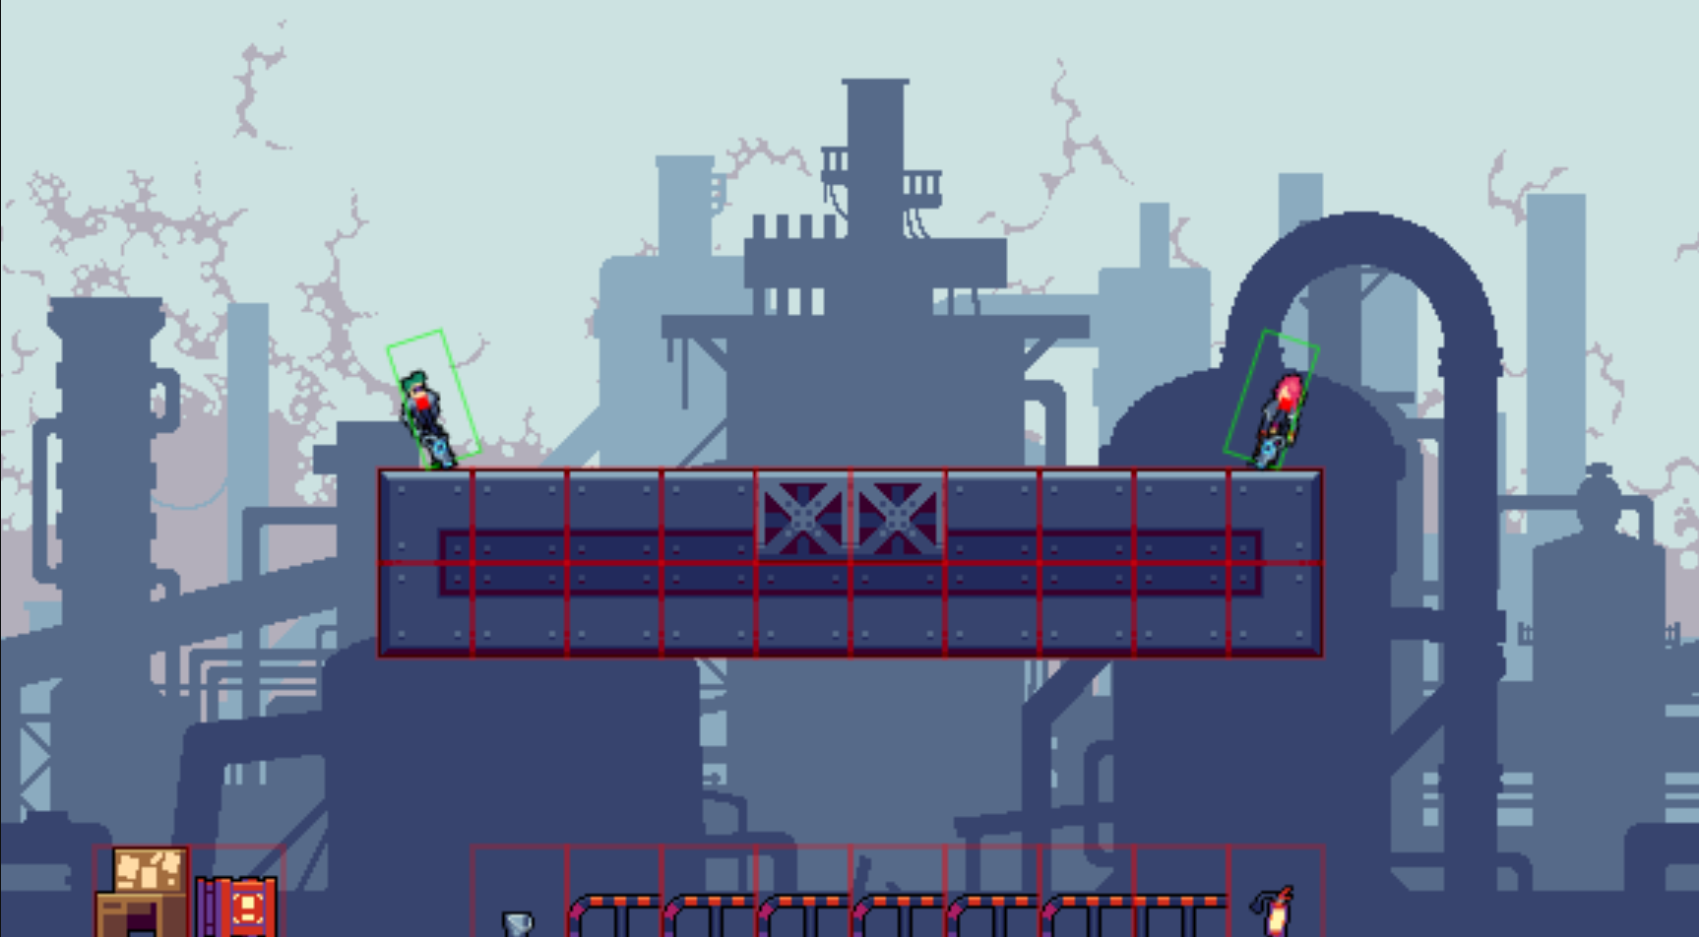
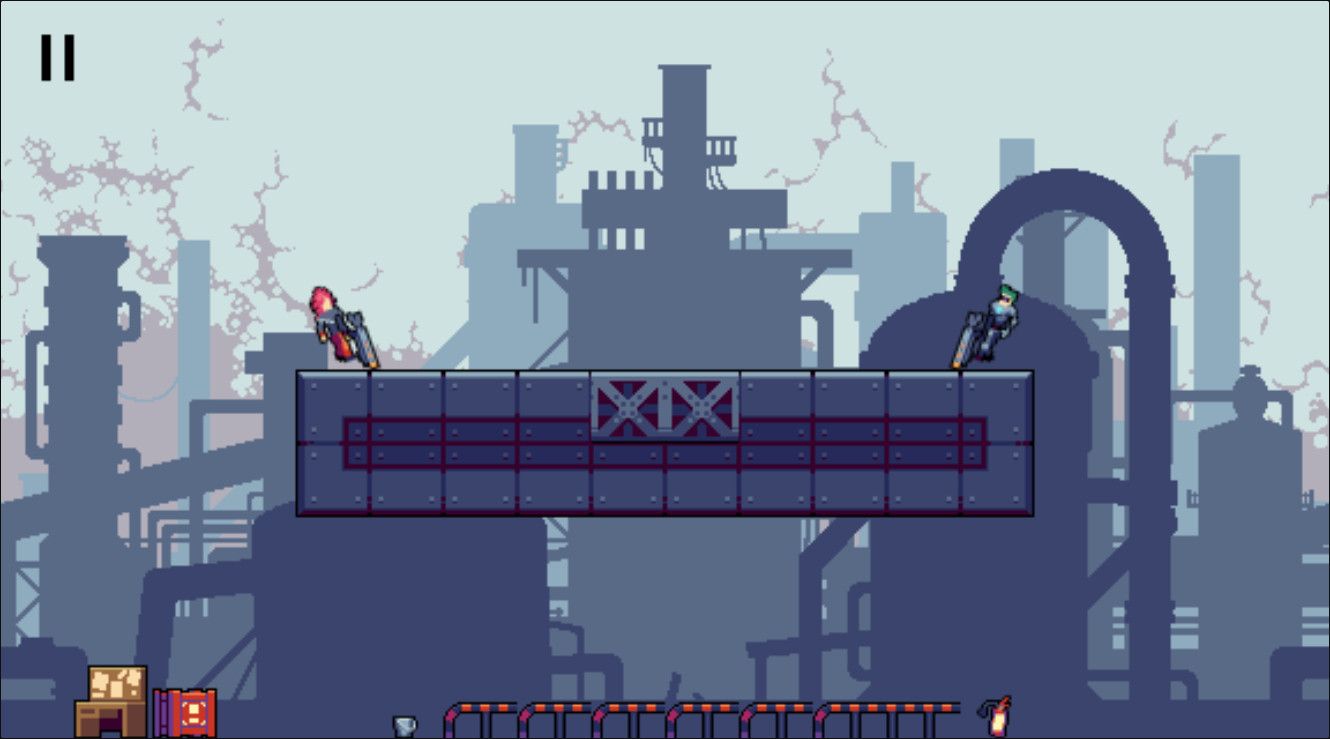
added the pause state

diff --git a/src/states/PlayState.js b/src/states/PlayState.js
@@ -23,10 +23,12 @@
             this.bullets = [];
             this.winner = null;
             this.scoredthisRound = false;
+            this.pauseHovered = false;
+            this.pauseButtonSize = 40;
         }
 
         async enter() {
-            this.clearBodies();
+            this.resetRound();
             const savedInfo = Persistence.loadGameInfo();
             this.player1Score = savedInfo.player1Score || 0;
             this.player2Score = savedInfo.player2Score || 0;
@@ -49,7 +51,6 @@
             this.player1 = CharacterFactory.createCharacter(150, 130, false, this);
             this.player2 = CharacterFactory.createCharacter(CANVAS_WIDTH - 150, 125, true, this);
 
-
             const savedGunType = savedInfo.gunType || '';
             const [gun1, gun2] = GunFactory.createGunForBothPlayers(this.player1, this.player2, savedGunType);
 
@@ -61,6 +62,10 @@
             // Set up collision detection for bullets hitting characters
             this.setupCollisionDetection();
             this.generatePowerUp();
+
+            const canvas = document.querySelector('canvas');
+            canvas.addEventListener('click', this.handleClick.bind(this));
+            canvas.addEventListener('mousemove', this.handleMouseMove.bind(this));
         }
         
         setupCollisionDetection() {
@@ -122,6 +127,38 @@
                     }
                 }
             });
+        }
+
+        exit() {
+            const canvas = document.querySelector('canvas');
+            canvas.removeEventListener('click', this.handleClick.bind(this));
+            canvas.removeEventListener('mousemove', this.handleMouseMove.bind(this));
+        }
+
+        getMousePos(event) {
+            const rect = event.target.getBoundingClientRect();
+            return {
+                x: (event.clientX - rect.left) * (CANVAS_WIDTH / rect.width),
+                y: (event.clientY - rect.top) * (CANVAS_HEIGHT / rect.height),
+            };
+        }
+
+        handleMouseMove(event) {
+            const { x, y } = this.getMousePos(event);
+
+            this.pauseHovered =
+                x > 10 &&
+                x < 10 + this.pauseButtonSize &&
+                y > 10 &&
+                y < 10 + this.pauseButtonSize;
+        }
+
+        handleClick(event) {
+            const { x, y } = this.getMousePos(event);
+
+            if (this.pauseHovered) {
+                stateMachine.change(GameStateName.Pause, { player1Score: this.player1Score, player2Score: this.player2Score});
+            }
         }
 
         
@@ -221,6 +258,19 @@
             for (const bullet of this.bullets) bullet.render()
 
             renderScore(this.player1Score, this.player2Score);
+            this.renderPauseButton();
+        }
+
+        renderPauseButton() {
+            // Draw || symbol for pause
+            context.strokeStyle = 'black';
+            context.lineWidth = 4;
+            context.beginPath();
+            context.moveTo(20, 15);
+            context.lineTo(20, 35);
+            context.moveTo(30, 15);
+            context.lineTo(30, 35);
+            context.stroke();
         }
 
         addBullets(bullets) {
@@ -284,30 +334,32 @@
             this.obstacles = [];
 
             // Respawn players
-            this.player1.respawn(150, 130);
-            this.player2.respawn(CANVAS_WIDTH - 150, 130);
+            if (this.player1 && this.player2) {
+                this.player1.respawn(150, 130);
+                this.player2.respawn(CANVAS_WIDTH - 150, 130);
 
-            // Reset guns
-            const savedInfo = Persistence.loadGameInfo();
-            const savedGunType = savedInfo.gunType || '';
+                // Reset guns
+                const savedInfo = Persistence.loadGameInfo();
+                const savedGunType = savedInfo.gunType || '';
 
-            const [gun1, gun2] = GunFactory.createGunForBothPlayers(
-                this.player1, 
-                this.player2, 
-                savedGunType, 
-                true
-            );
+                const [gun1, gun2] = GunFactory.createGunForBothPlayers(
+                    this.player1, 
+                    this.player2, 
+                    savedGunType, 
+                    true
+                );
 
-            this.player1.setGun(gun1);
-            this.player2.setGun(gun2);
+                this.player1.setGun(gun1);
+                this.player2.setGun(gun2);
 
-            Persistence.saveGameInfo({ gunType: gun1.type });
+                Persistence.saveGameInfo({ gunType: gun1.type });
 
-            // Reset velocities
-            matter.Body.setVelocity(this.player1.body, { x: 0, y: 0 });
-            matter.Body.setVelocity(this.player2.body, { x: 0, y: 0 });
+                // Reset velocities
+                matter.Body.setVelocity(this.player1.body, { x: 0, y: 0 });
+                matter.Body.setVelocity(this.player2.body, { x: 0, y: 0 });
 
-            this.scoredthisRound = false;
+                this.scoredthisRound = false;
+            }
         }
 
         clearBodies() {

diff --git a/src/states/PauseState.js b/src/states/PauseState.js
@@ -1,0 +1,114 @@
+import State from '../../lib/State.js';
+import { context, CANVAS_WIDTH, CANVAS_HEIGHT, input, stateMachine, timer, sounds } from '../globals.js';
+import Input from '../../lib/Input.js';
+import GameStateName from '../enums/GameStateName.js';
+import SoundName from '../enums/SoundName.js';
+import renderScore from '../ui/ScoreRenderer.js';
+import Persistence from '../services/Persistence.js';
+
+export default class PauseState extends State {
+    constructor() {
+        super();
+        this.bgImage = new Image();
+        this.bgImage.src = './assets/images/background2.png';
+        this.loaded = false;
+        this.bgImage.onload = () => (this.loaded = true);
+
+        this.resumeHovered = false;
+        this.menuHovered = false;
+
+        this.handleClick = this.handleClick.bind(this);
+        this.handleMouseMove = this.handleMouseMove.bind(this);
+    }
+
+    enter({ player1Score, player2Score } = {}) {
+        const savedInfo = Persistence.loadGameInfo();
+        this.player1Score = player1Score ?? savedInfo.player1Score ?? 0;
+        this.player2Score = player2Score ?? savedInfo.player2Score ?? 0;
+
+        const canvas = document.querySelector('canvas');
+        canvas.addEventListener('click', this.handleClick);
+        canvas.addEventListener('mousemove', this.handleMouseMove);
+    }
+
+    exit() {
+        const canvas = document.querySelector('canvas');
+        canvas.removeEventListener('click', this.handleClick);
+        canvas.removeEventListener('mousemove', this.handleMouseMove);
+    }
+
+    getMousePos(event) {
+        const rect = event.target.getBoundingClientRect();
+        return {
+            x: (event.clientX - rect.left) * (CANVAS_WIDTH / rect.width),
+            y: (event.clientY - rect.top) * (CANVAS_HEIGHT / rect.height),
+        };
+    }
+
+    handleMouseMove(event) {
+        const { x, y } = this.getMousePos(event);
+
+        this.resumeHovered =
+            x > CANVAS_WIDTH / 2 - 100 &&
+            x < CANVAS_WIDTH / 2 + 100 &&
+            y > 220 &&
+            y < 260;
+
+        this.menuHovered =
+            x > CANVAS_WIDTH / 2 - 80 &&
+            x < CANVAS_WIDTH / 2 + 80 &&
+            y > 280 &&
+            y < 320;
+    }
+
+    handleClick(event) {
+        if (this.resumeHovered) {
+            stateMachine.change(GameStateName.Play);
+        }
+
+        if (this.menuHovered) {
+            sounds.stop(SoundName.EpicBackgroundMusic);
+            stateMachine.change(GameStateName.Menu);
+        }
+    }
+
+    update() {
+        if (input.isKeyPressed(Input.KEYS.ESCAPE)) {
+            stateMachine.change(GameStateName.Play);
+        }
+    }
+
+    render() {
+        // Draw background
+        if (this.loaded) {
+            context.drawImage(this.bgImage, 0, 0, CANVAS_WIDTH, CANVAS_HEIGHT);
+        } else {
+            context.fillStyle = '#000';
+            context.fillRect(0, 0, CANVAS_WIDTH, CANVAS_HEIGHT);
+        }
+
+        // Optional semi-transparent overlay for pause effect
+        context.fillStyle = 'rgba(0,0,0,0.4)';
+        context.fillRect(0, 0, CANVAS_WIDTH, CANVAS_HEIGHT);
+
+        this.renderButtons();
+        renderScore(this.player1Score, this.player2Score)
+    }
+
+    renderButtons() {
+        context.textAlign = 'center';
+        context.font = '32px FutureMillennium';
+        context.lineWidth = 4;
+
+        // RESUME
+        context.fillStyle = this.resumeHovered ? '#ffdd00' : '#ffc400';
+        context.strokeStyle = 'black';
+        context.strokeText('RESUME', CANVAS_WIDTH / 2, 250);
+        context.fillText('RESUME', CANVAS_WIDTH / 2, 250);
+
+        // MENU
+        context.fillStyle = this.menuHovered ? '#2dffaeff' : '#198a19ff';
+        context.strokeText('MENU', CANVAS_WIDTH / 2, 310);
+        context.fillText('MENU', CANVAS_WIDTH / 2, 310);
+    }
+}

diff --git a/src/main.js b/src/main.js
@@ -28,6 +28,7 @@ import TitleScreenState from './states/TitleScreenState.js';
 import PlayerSelectState from './states/PlayerSelectState.js';
 import MenuState from './states/MenuState.js';
 import Persistence from './services/Persistence.js';
+import PauseState from './states/PauseState.js';
 
 // Set the dimensions of the play area.
 canvas.width = CANVAS_WIDTH;
@@ -55,6 +56,7 @@ stateMachine.add(GameStateName.TitleScreen, new TitleScreenState());
 stateMachine.add(GameStateName.GameOver, new GameOverState());
 stateMachine.add(GameStateName.Victory, new VictoryState());
 stateMachine.add(GameStateName.Play, new PlayState());
+stateMachine.add(GameStateName.Pause, new PauseState());
 stateMachine.add(GameStateName.PlayerSelect, new PlayerSelectState());
 
 const saved = Persistence.loadCurrentState();

diff --git a/src/states/VictoryState.js b/src/states/VictoryState.js
@@ -122,7 +122,6 @@ export default class VictoryState extends State {
 		this.renderButtons();
 	}
 
-	/* ---------- TOP SCORE ---------- */
 	renderScore() {
 		renderScore(this.blueScore, this.redScore);
 	}

diff --git a/src/enums/GameStateName.js b/src/enums/GameStateName.js
@@ -5,6 +5,7 @@ const GameStateName = {
 	TitleScreen: 'title-screen',
 	Menu: 'menu',
 	PlayerSelect: 'player-select',
+	Pause: 'pause'
 };
 
 export default GameStateName;
